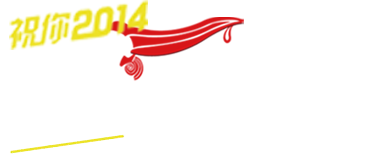
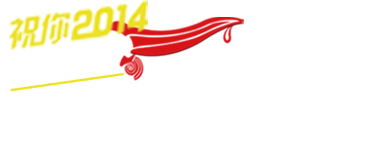
'm'

Changed region(s): [[0.0301, 0.4268, 0.3616, 0.5793], [0.0301, 0.8232, 0.3616, 0.9451]]

diff --git a/weixin.php b/weixin.php
@@ -108,9 +108,9 @@ if ($msgType == 'text') {
 			$draw->setFillColor('#f8ec00');
 			$draw->setFont('/var/www/han.TTF');
 			$draw->setTextEncoding('utf-8');
-			$draw->setFontSize(16);
+			$draw->setFontSize(24);
 			$draw->setGravity(1);
-			$image->annotateImage($draw, 50, 50, -10, $userInfo['content']);
+			$image->annotateImage($draw, 10, 60, -10, $userInfo['content']);
 			//$image->annotateImage($draw, 100, 200, -10,'test4测试字体');
 			//$userImg->compositeImage($image, Imagick::COMPOSITE_DEFAULT, 0, 0);
 			$userImg->rotateImage(new ImagickPixel('transparent'), -13.55); 
